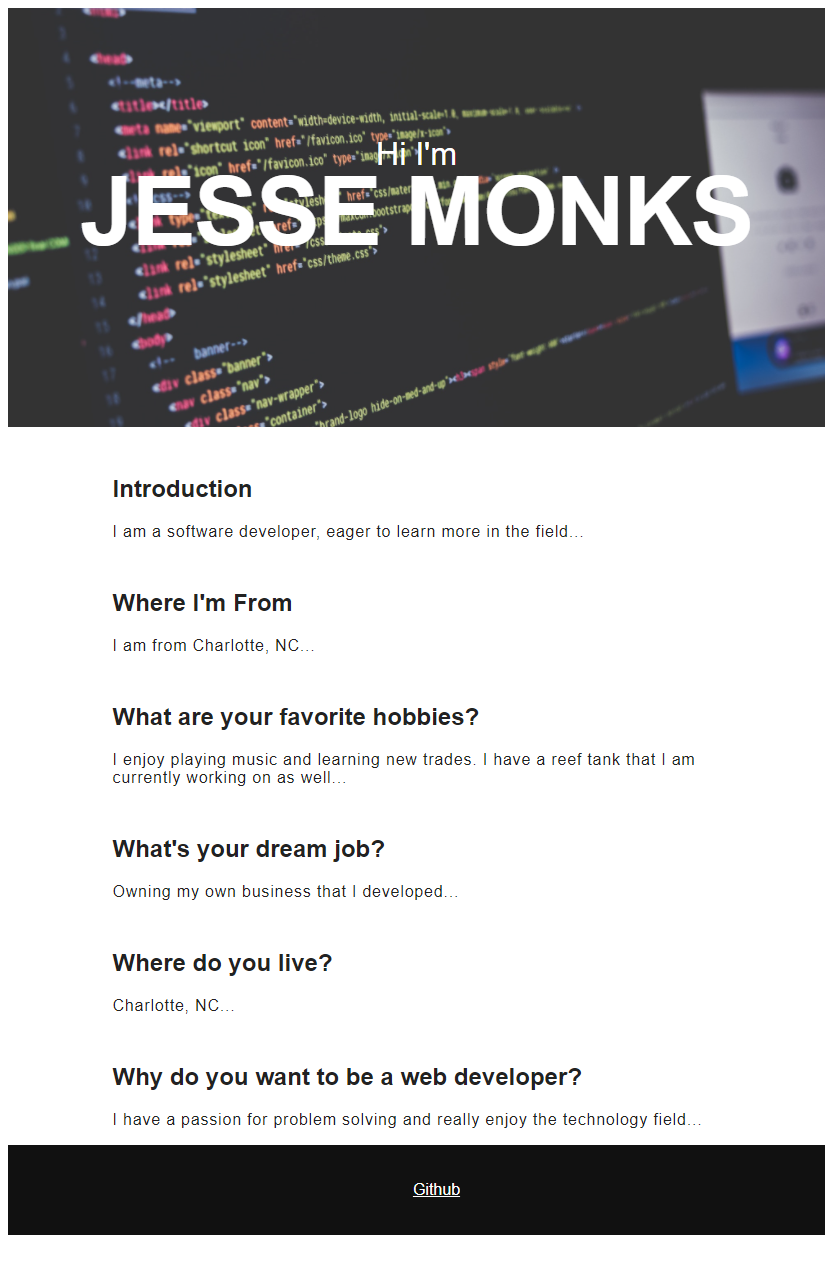
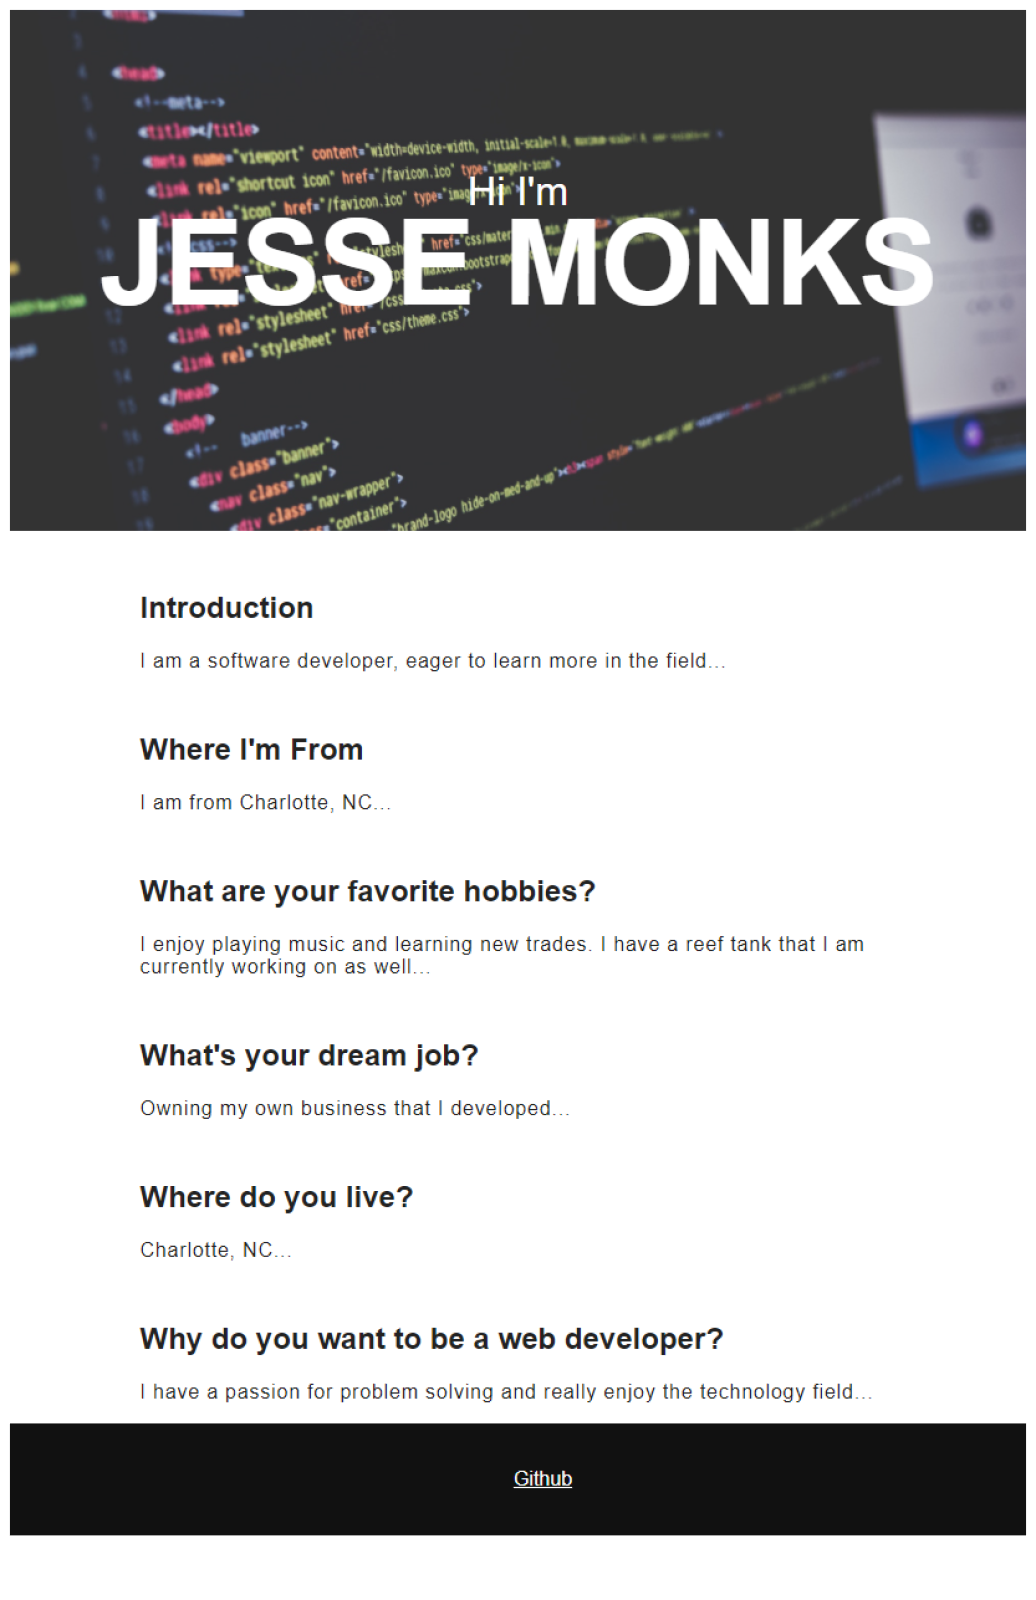
tweaks

diff --git a/index.html b/index.html
@@ -13,17 +13,17 @@
 <body>
   <header>
     <h1>Jesse Monks</h1>
-    <nav>
-      <a href="#about">About Me</h2>
-      <a href="#work">Work</h2>
-      <a href="#resume">Resume</h2>
+    <nav class="links">
+      <a href="#about">About Me</a>
+      <a href="#work">My Work</a>
+      <a href="#resume">Resume</a>
     </nav>
     <a class="contact" href="#contact"><button>Contact Me</button></a>
   </header>
 
   <main>
     <div class="left-section">
-      <h3>About Me</h3>
+      <h3 id="about">About Me</h3>
     </div>
     <div class="right-section">
       <h3>My name is Jesse Monks, I am an entry level developer looking to hone my skills and take my work to the next level. I have experience in html, css, and some javascript.</h3>
@@ -31,13 +31,13 @@
   </main>
   <main>
     <div class="left-section">
-      <h3>My Work:</h3>
-      <h5>You may click on an image that you would like to see the repository for</h5>
+      <h3 id="work">My Work:</h3>
     </div>
     <div class="right-section">
       <a href="https://github.com/heatedtowel/seo-optimization"><img class="seo" src="./assets/images/Search Engine Op.png" alt="Search engine optimization project"></a>
-      <img class="seo" src="./assets/images/Search Engine Op.png" alt="About me page">
-      <img class="seo" src="./assets/images/Search Engine Op.png" alt="Search engine optimization project">
+      <a href="https://heatedtowel.github.io/prework-about-me/"><img class="seo" src="./assets/images/About Me.png" alt="About me page"></a>
+      <a href="https://heatedtowel.github.io/fishtank-parameters/"><img class="seo" src="./assets/images/Fish Tank Parame.png" alt="Saltwater aquarium guide"></a>
+      
     </div>
   </main>
   <main>
@@ -53,7 +53,6 @@
   <footer>
     <h2>Thank you for visiting</h2>
   </footer>
-
 </body>
 
 </html>

diff --git a/assets/style.css b/assets/style.css
@@ -22,15 +22,15 @@ header h1 {
   cursor: pointer;
 }
 
-header nav a {
+.links a {
   list-style: none;
   display: inline-block;
   padding: 10px;
   text-decoration: none;
 }
 
-header nav a:hover {
-  color: #8d91c7;
+.links a:hover {
+  color: #404046;
 }
 
 button {
@@ -52,7 +52,7 @@ main {
 .left-section {
   background-color: #845A6D;
   border-radius: 20px;
-  padding: 5px;
+  padding: 10px;
   width: 15%;
   text-align: center;
   align-self: center;
@@ -78,10 +78,24 @@ main {
 .right-section h3, 
 .right-section a {
   text-align: center;
+  font-size: 20px;
+}
+
+#contact a {
+  text-decoration: none;
+  text-align: center;
+  padding: 10px;
+}
+
+#contact a:hover {
+  color: #B0DAF1;
 }
 
 footer {
-  padding: 10px;
+  position: fixed;
+  width: 100%;
+  bottom: 0px;
+  padding: 15px;
   background-color: #3E1929;
   text-align: center;
 }
